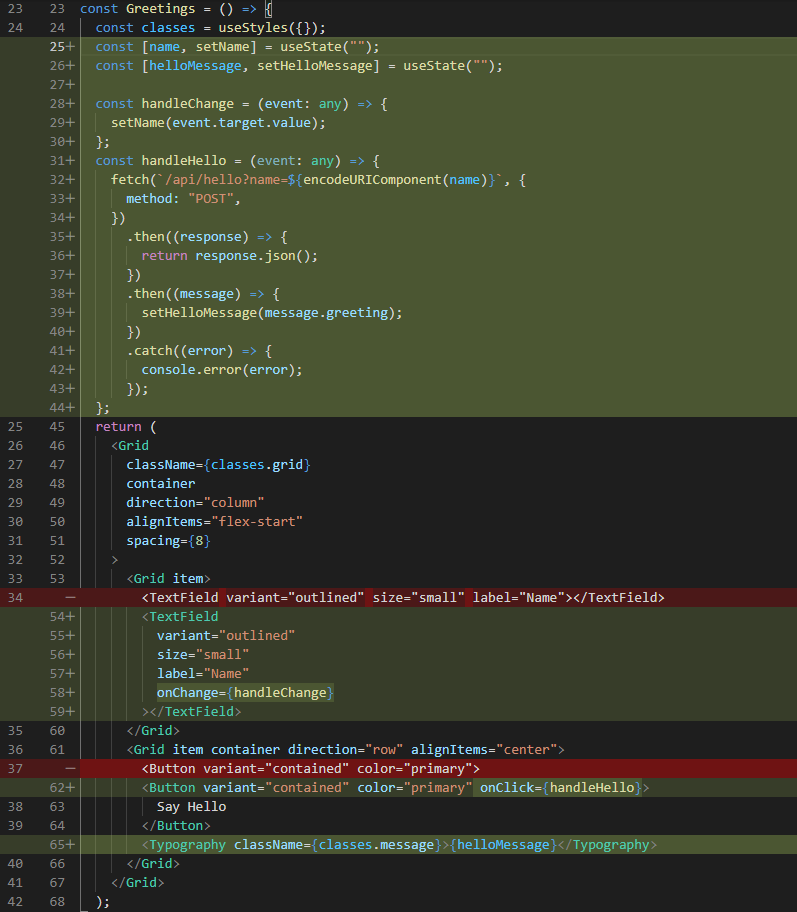
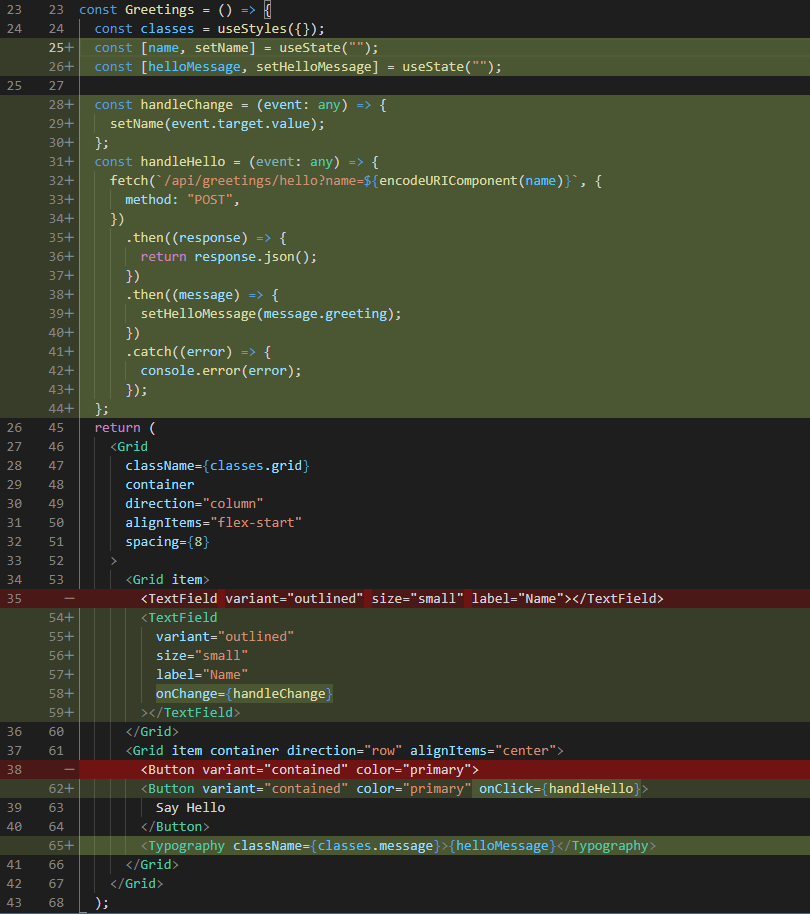
ww

Changed region(s): [[0.0, 0.0, 1.0, 1.0], [0.0, 0.7982, 0.0301, 1.0], [0.0, 0.4605, 0.0301, 0.6754]]

diff --git a/src/pages/Greetings.tsx b/src/pages/Greetings.tsx
@@ -22,7 +22,26 @@ const useStyles = makeStyles((theme: Theme) =>
 
 const Greetings = () => {
   const classes = useStyles({});
+  const [name, setName] = useState("");
+  const [helloMessage, setHelloMessage] = useState("");
 
+  const handleChange = (event: any) => {
+    setName(event.target.value);
+  };
+  const handleHello = (event: any) => {
+    fetch(`/api/greetings/hello?name=${encodeURIComponent(name)}`, {
+      method: "POST",
+    })
+      .then((response) => {
+        return response.json();
+      })
+      .then((message) => {
+        setHelloMessage(message.greeting);
+      })
+      .catch((error) => {
+        console.error(error);
+      });
+  };
   return (
     <Grid
       className={classes.grid}
@@ -32,12 +51,18 @@ const Greetings = () => {
       spacing={8}
     >
       <Grid item>
-        <TextField variant="outlined" size="small" label="Name"></TextField>
+        <TextField
+          variant="outlined"
+          size="small"
+          label="Name"
+          onChange={handleChange}
+        ></TextField>
       </Grid>
       <Grid item container direction="row" alignItems="center">
-        <Button variant="contained" color="primary">
+        <Button variant="contained" color="primary" onClick={handleHello}>
           Say Hello
         </Button>
+        <Typography className={classes.message}>{helloMessage}</Typography>
       </Grid>
     </Grid>
   );
